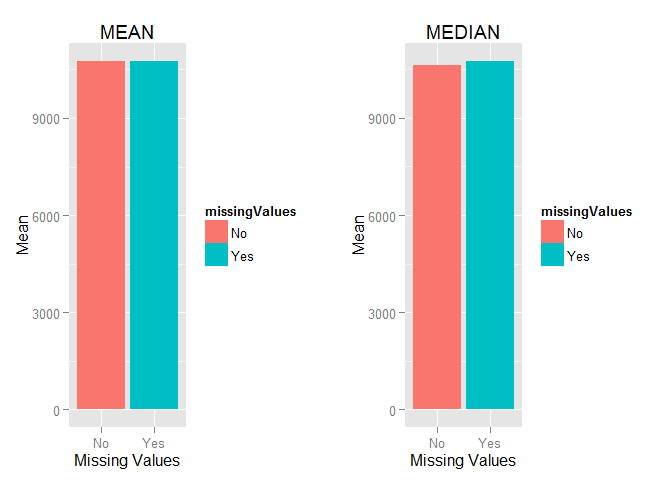
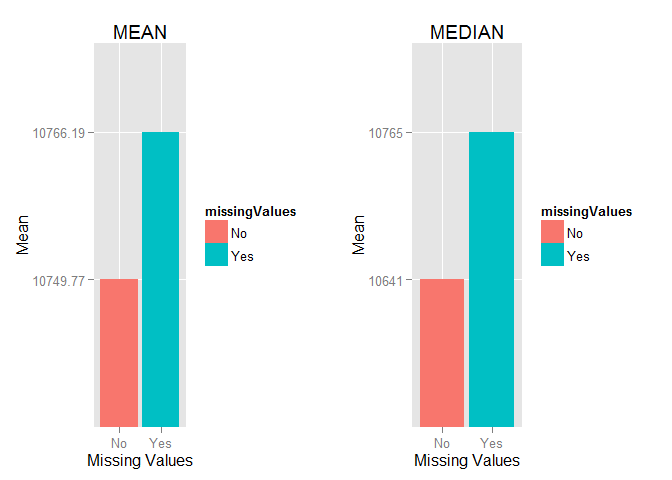
Commiting 2015-01-09 09:54 p.m.

Changed region(s): [[0.0312, 0.0312, 0.2812, 1.0], [0.5312, 0.0938, 0.7812, 0.9688], [0.625, 0.0312, 0.75, 0.0938]]

diff --git a/PA1_template.html b/PA1_template.html
@@ -211,10 +211,10 @@ legend(x=&quot;topright&quot;, legend=c(&quot;mean&quot;,&quot;median&quot;), co
 <li>Calculate and report the mean and median total number of steps taken per day.</li>
 </ol>
 <pre class="r"><code># Mean of total number of steps taken per day
-mean(dsActivityDay$stepsSum, na.rm=TRUE)</code></pre>
+stepMean</code></pre>
 <pre><code>## [1] 10766.19</code></pre>
 <pre class="r"><code># Median of total number of steps taken per day
-median(dsActivityDay$stepsSum, na.rm=TRUE)</code></pre>
+stepMedian</code></pre>
 <pre><code>## [1] 10765</code></pre>
 </div>
 <div id="what-is-the-average-daily-activity-pattern" class="section level2">
@@ -391,19 +391,17 @@ legend(x=&quot;topright&quot;, legend=c(&quot;mean&quot;,&quot;median&quot;), co
 <pre class="r"><code># Create a data frame to store the mean and median calculated with missing data and filled data
 dsMeanMedian &lt;- as.data.frame(rbind(
         c(&quot;Yes&quot;
-            ,round(mean(dsActivityDay$stepsSum, na.rm=TRUE),2)
-            ,median(dsActivityDay$stepsSum, na.rm=TRUE))
+            ,round(stepMean,2)
+            ,stepMedian)
         
         , 
         
         c(&quot;No&quot;
-            ,round(mean(dsActivityNADay$stepsSum, na.rm=TRUE),2)
-            ,median(dsActivityNADay$stepsSum, na.rm=TRUE))), stringsAsFactors=FALSE)
+            ,round(stepMean2,2)
+            ,stepMedian2)))
 
 names(dsMeanMedian)             &lt;- c(&quot;missingValues&quot;, &quot;meanDay&quot;, &quot;medianDay&quot;)
 dsMeanMedian$missingValues      &lt;- as.factor(dsMeanMedian$missingValues)
-dsMeanMedian$meanDay            &lt;- as.numeric(dsMeanMedian$meanDay)
-dsMeanMedian$medianDay          &lt;- as.numeric(dsMeanMedian$medianDay)
 
 # Show the mean and median with missing and filled data
 dsMeanMedian</code></pre>
@@ -435,7 +433,7 @@ plot2 &lt;- qplot(x= missingValues
 
 grid.arrange(plot1, plot2, ncol=2)</code></pre>
 <div class="figure">
[2 lines of base64/hex data omitted]
 </div>
 </div>
 <div id="are-there-differences-in-activity-patterns-between-weekdays-and-weekends" class="section level2">

diff --git a/PA1_template.md b/PA1_template.md
@@ -195,7 +195,7 @@ legend(x="topright", legend=c("mean","median"), col=c("red","blue"), bty="n", lw
 
 ```r
 # Mean of total number of steps taken per day
-mean(dsActivityDay$stepsSum, na.rm=TRUE)
+stepMean
 ```
 
 ```
@@ -204,7 +204,7 @@ mean(dsActivityDay$stepsSum, na.rm=TRUE)
 
 ```r
 # Median of total number of steps taken per day
-median(dsActivityDay$stepsSum, na.rm=TRUE)
+stepMedian
 ```
 
 ```
@@ -450,19 +450,17 @@ Filling in missing data with interval MEAN let the metrics almost the same. The 
 # Create a data frame to store the mean and median calculated with missing data and filled data
 dsMeanMedian <- as.data.frame(rbind(
         c("Yes"
-            ,round(mean(dsActivityDay$stepsSum, na.rm=TRUE),2)
-            ,median(dsActivityDay$stepsSum, na.rm=TRUE))
+            ,round(stepMean,2)
+            ,stepMedian)
         
         , 
         
         c("No"
-            ,round(mean(dsActivityNADay$stepsSum, na.rm=TRUE),2)
-            ,median(dsActivityNADay$stepsSum, na.rm=TRUE))), stringsAsFactors=FALSE)
+            ,round(stepMean2,2)
+            ,stepMedian2)))
 
 names(dsMeanMedian)             <- c("missingValues", "meanDay", "medianDay")
 dsMeanMedian$missingValues      <- as.factor(dsMeanMedian$missingValues)
-dsMeanMedian$meanDay            <- as.numeric(dsMeanMedian$meanDay)
-dsMeanMedian$medianDay          <- as.numeric(dsMeanMedian$medianDay)
 
 # Show the mean and median with missing and filled data
 dsMeanMedian
